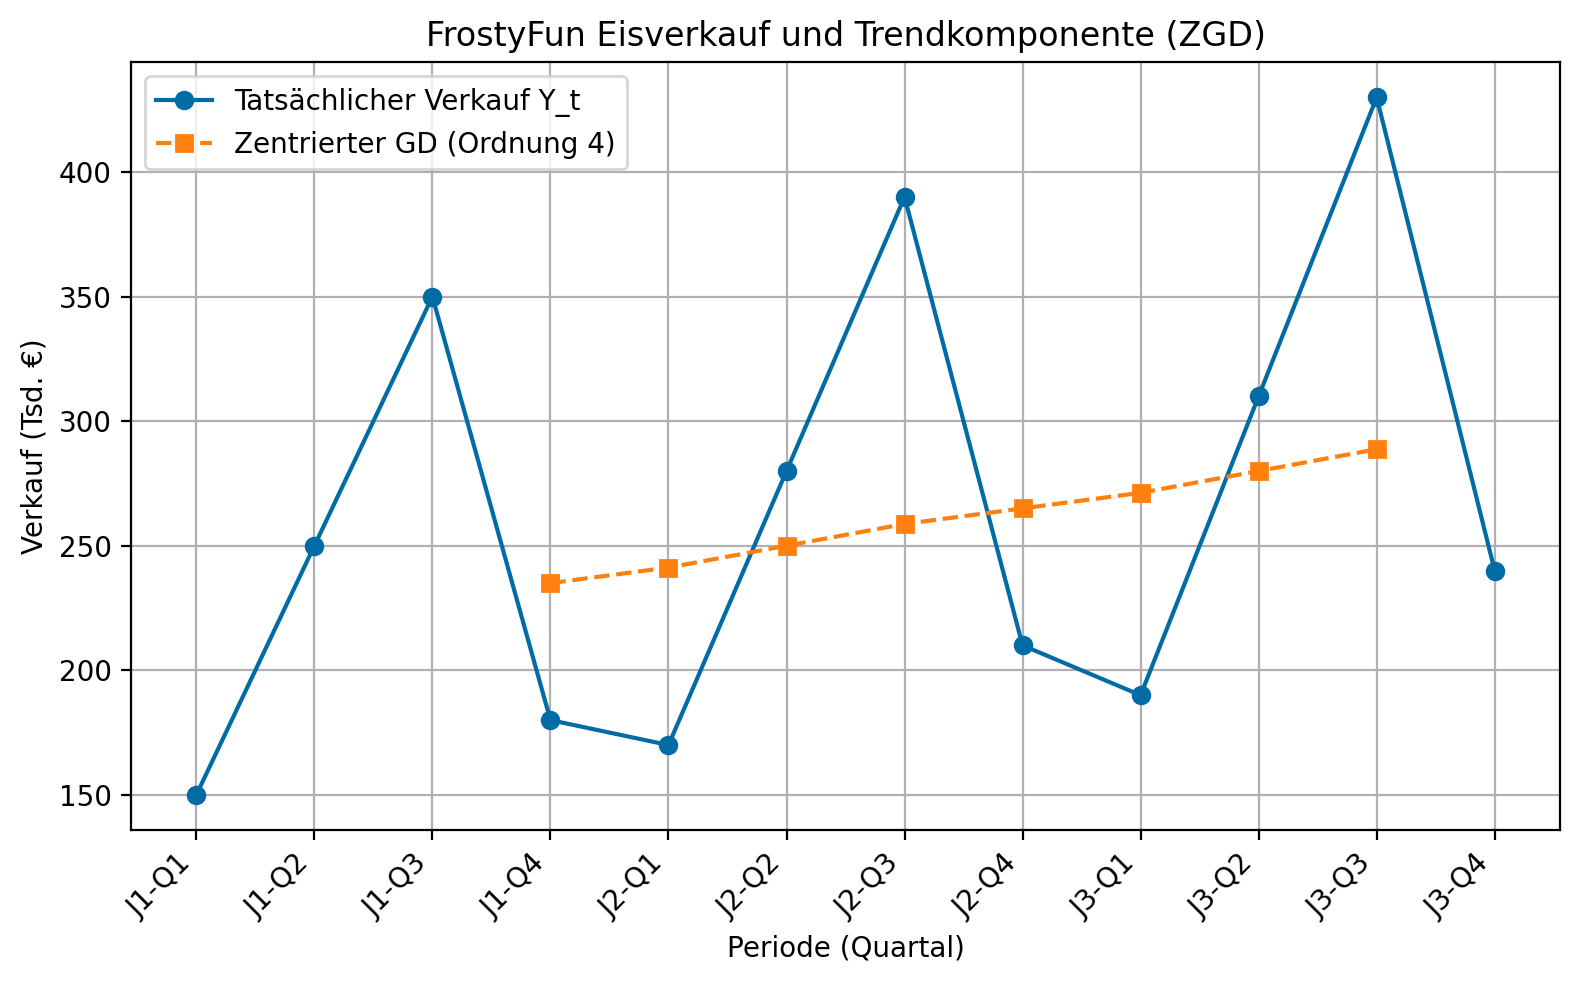
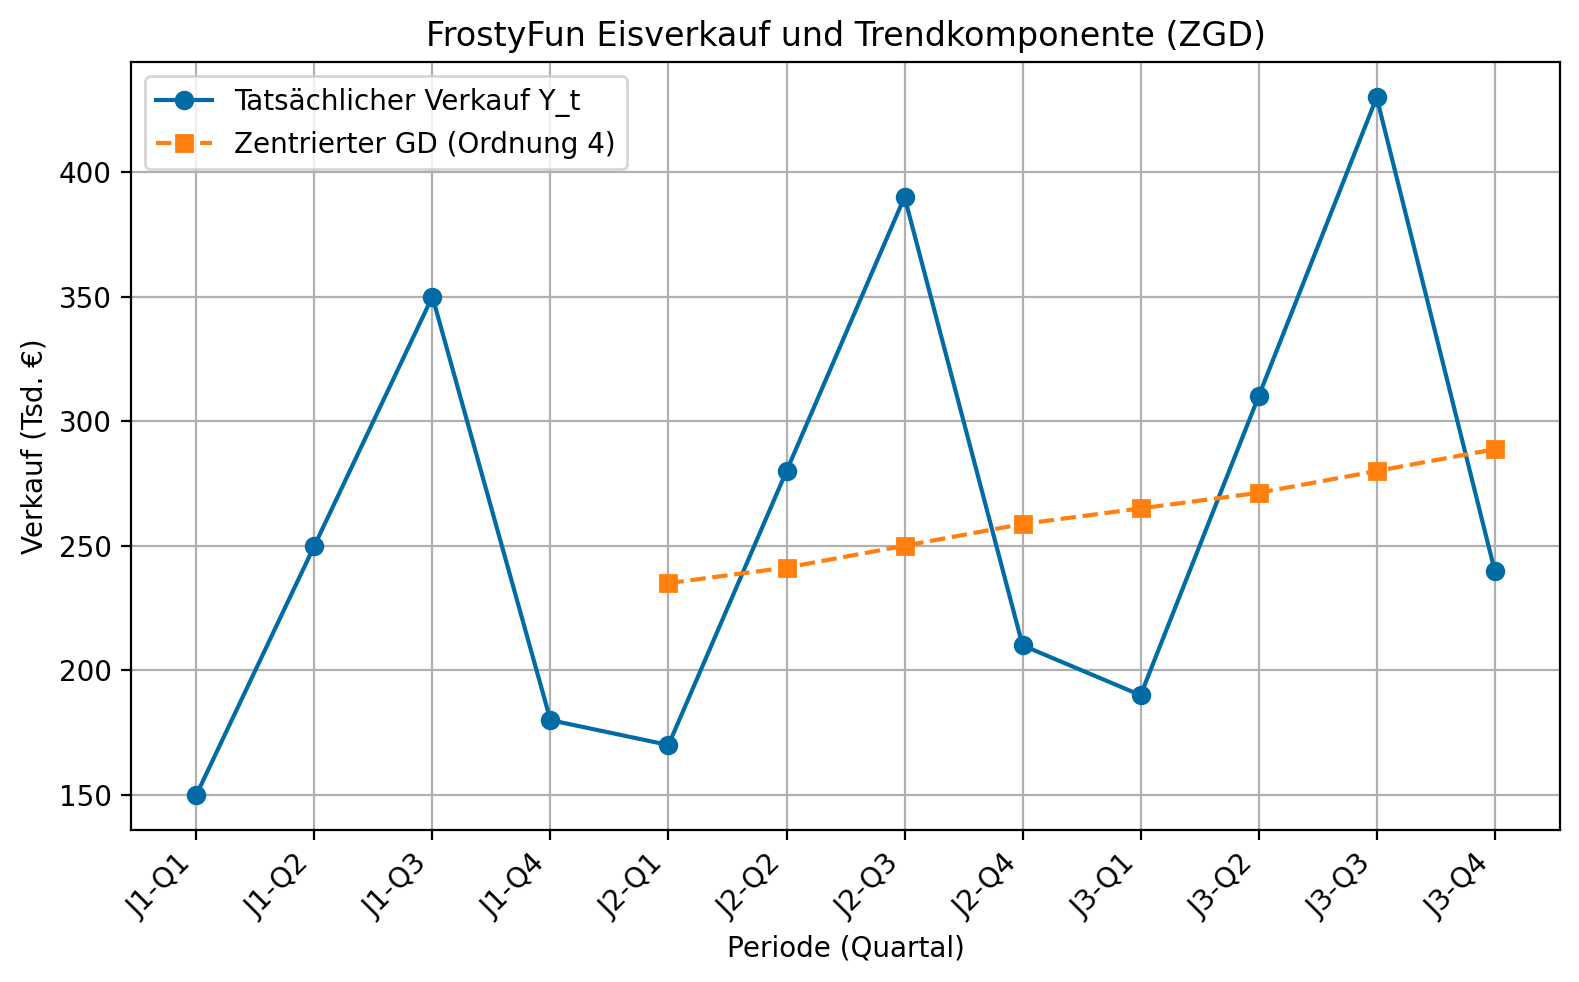
Built site for gh-pages

Changed region(s): [[0.3414, 0.4277, 0.962, 0.611]]

diff --git a/part-02/pw2-tutorial-02.html b/part-02/pw2-tutorial-02.html
@@ -392,7 +392,7 @@ window.Quarto = {
 <li>Saisonalisieren Sie diese Prognosen, indem Sie sie mit den entsprechenden Saisonindizes multiplizieren, um die finalen Verkaufsprognosen zu erhalten.</li>
 </ol>
 <p><strong>Lösung (Python-Code):</strong></p>
-<div id="f33aed83" class="cell" data-execution_count="1">
+<div id="03103679" class="cell" data-execution_count="1">
 <div class="cell-output cell-output-stdout">
 <pre><code>Verkaufsdaten Gelato Paradiso:
    Jahr QuartalStr  Verkauf  Periode  Saisonindex
@@ -540,7 +540,7 @@ Finale Verkaufsprognosen für Jahr 3 (resaisoniert):
 <li>Normieren Sie die durchschnittlichen Saisonfaktoren, sodass ihre Summe der Anzahl der Saisons (hier 4) entspricht. Diese normierten Werte sind die finalen Saisonindizes (<span class="math inline">\(\widehat{s}_m\)</span>).</li>
 </ol>
 <p><strong>Lösung (Python-Code):</strong></p>
-<div id="ee57a36e" class="cell" data-execution_count="2">
+<div id="9b6267cc" class="cell" data-execution_count="2">
 <div class="cell-output cell-output-stdout">
 <pre><code>Verkaufsdaten FrostyFun Eiscreme:
     Jahr QuartalStr  Verkauf  Periode
@@ -562,43 +562,43 @@ Verkaufsdaten mit GD4 und ZGD4:
 0         1      150    NaN     NaN
 1         2      250    NaN     NaN
 2         3      350    NaN     NaN
-3         4      180  232.5  235.00
-4         5      170  237.5  241.25
-5         6      280  245.0  250.00
-6         7      390  255.0  258.75
-7         8      210  262.5  265.00
-8         9      190  267.5  271.25
-9        10      310  275.0  280.00
-10       11      430  285.0  288.75
-11       12      240  292.5     NaN
+3         4      180  232.5     NaN
+4         5      170  237.5  235.00
+5         6      280  245.0  241.25
+6         7      390  255.0  250.00
+7         8      210  262.5  258.75
+8         9      190  267.5  265.00
+9        10      310  275.0  271.25
+10       11      430  285.0  280.00
+11       12      240  292.5  288.75
 
 Verkaufsdaten mit Roh-Saisonfaktoren:
     Periode QuartalStr  Verkauf    ZGD4  Roh_SF
-3         4         Q4      180  235.00   0.766
-4         5         Q1      170  241.25   0.705
-5         6         Q2      280  250.00   1.120
-6         7         Q3      390  258.75   1.507
-7         8         Q4      210  265.00   0.792
-8         9         Q1      190  271.25   0.700
-9        10         Q2      310  280.00   1.107
-10       11         Q3      430  288.75   1.489
+4         5         Q1      170  235.00   0.723
+5         6         Q2      280  241.25   1.161
+6         7         Q3      390  250.00   1.560
+7         8         Q4      210  258.75   0.812
+8         9         Q1      190  265.00   0.717
+9        10         Q2      310  271.25   1.143
+10       11         Q3      430  280.00   1.536
+11       12         Q4      240  288.75   0.831
 
 Durchschnittliche Saisonfaktoren (s_m):
    QuartalNum  s_m_durchschnitt
-0           1             0.703
-1           2             1.114
-2           3             1.498
-3           4             0.779
+0           1             0.720
+1           2             1.152
+2           3             1.548
+3           4             0.821
 
-Summe der durchschnittlichen SF: 4.094
-Normierungsfaktor: 0.977
+Summe der durchschnittlichen SF: 4.241
+Normierungsfaktor: 0.943
 
 Finale normierte Saisonindizes:
    QuartalNum  s_m_durchschnitt  Saisonindex_Normiert
-0           1             0.703                 0.687
-1           2             1.114                 1.088
-2           3             1.498                 1.464
-3           4             0.779                 0.761
+0           1             0.720                 0.679
+1           2             1.152                 1.086
+2           3             1.548                 1.460
+3           4             0.821                 0.775
 Summe der normierten Saisonindizes: 4.00</code></pre>
 </div>
 <div class="cell-output cell-output-display">
@@ -611,10 +611,10 @@ Summe der normierten Saisonindizes: 4.00</code></pre>
 <div class="cell-output cell-output-stdout">
 <pre><code>
 Übersicht der finalen Saisonindizes:
-Q1    0.687
-Q2    1.088
-Q3    1.464
-Q4    0.761
+Q1    0.679
+Q2    1.086
+Q3    1.460
+Q4    0.775
 dtype: float64</code></pre>
 </div>
 </div>
@@ -685,7 +685,7 @@ dtype: float64</code></pre>
 <li>Würden Sie denken, dass das Verfahren von Holt und Winters besser geeignet wäre, um die Verkaufszahlen zu prognostizieren?</li>
 </ol>
 <p><strong>Lösung (Python-Code):</strong></p>
-<div id="354949d1" class="cell" data-execution_count="3">
+<div id="c63527b7" class="cell" data-execution_count="3">
 <div class="cell-output cell-output-stdout">
 <pre><code>Verkaufsdaten Deep Learning:
    Monat  Verkauf
